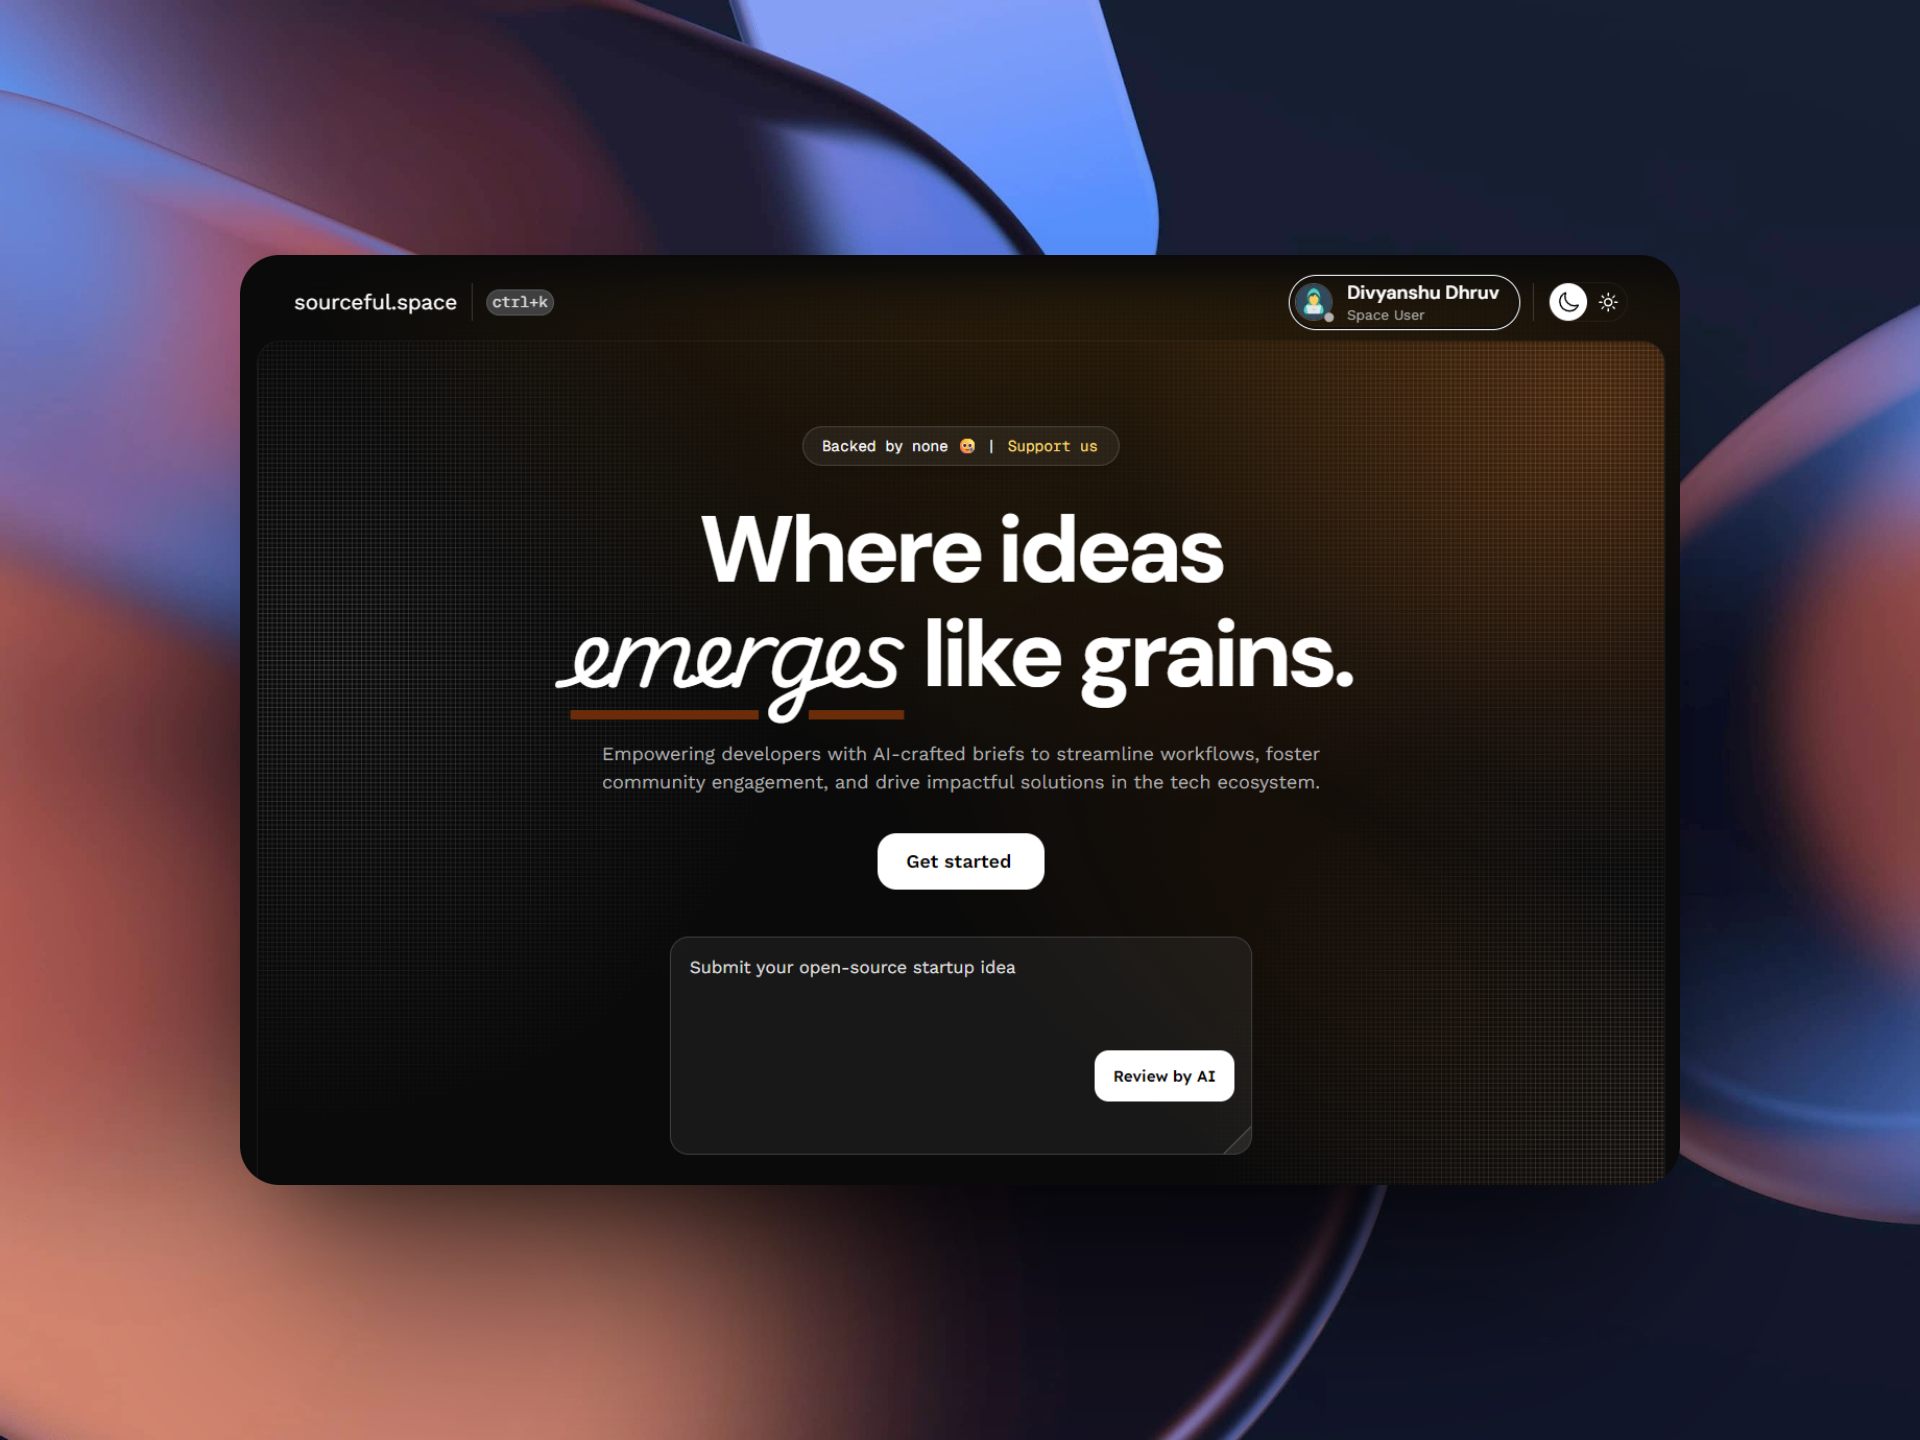
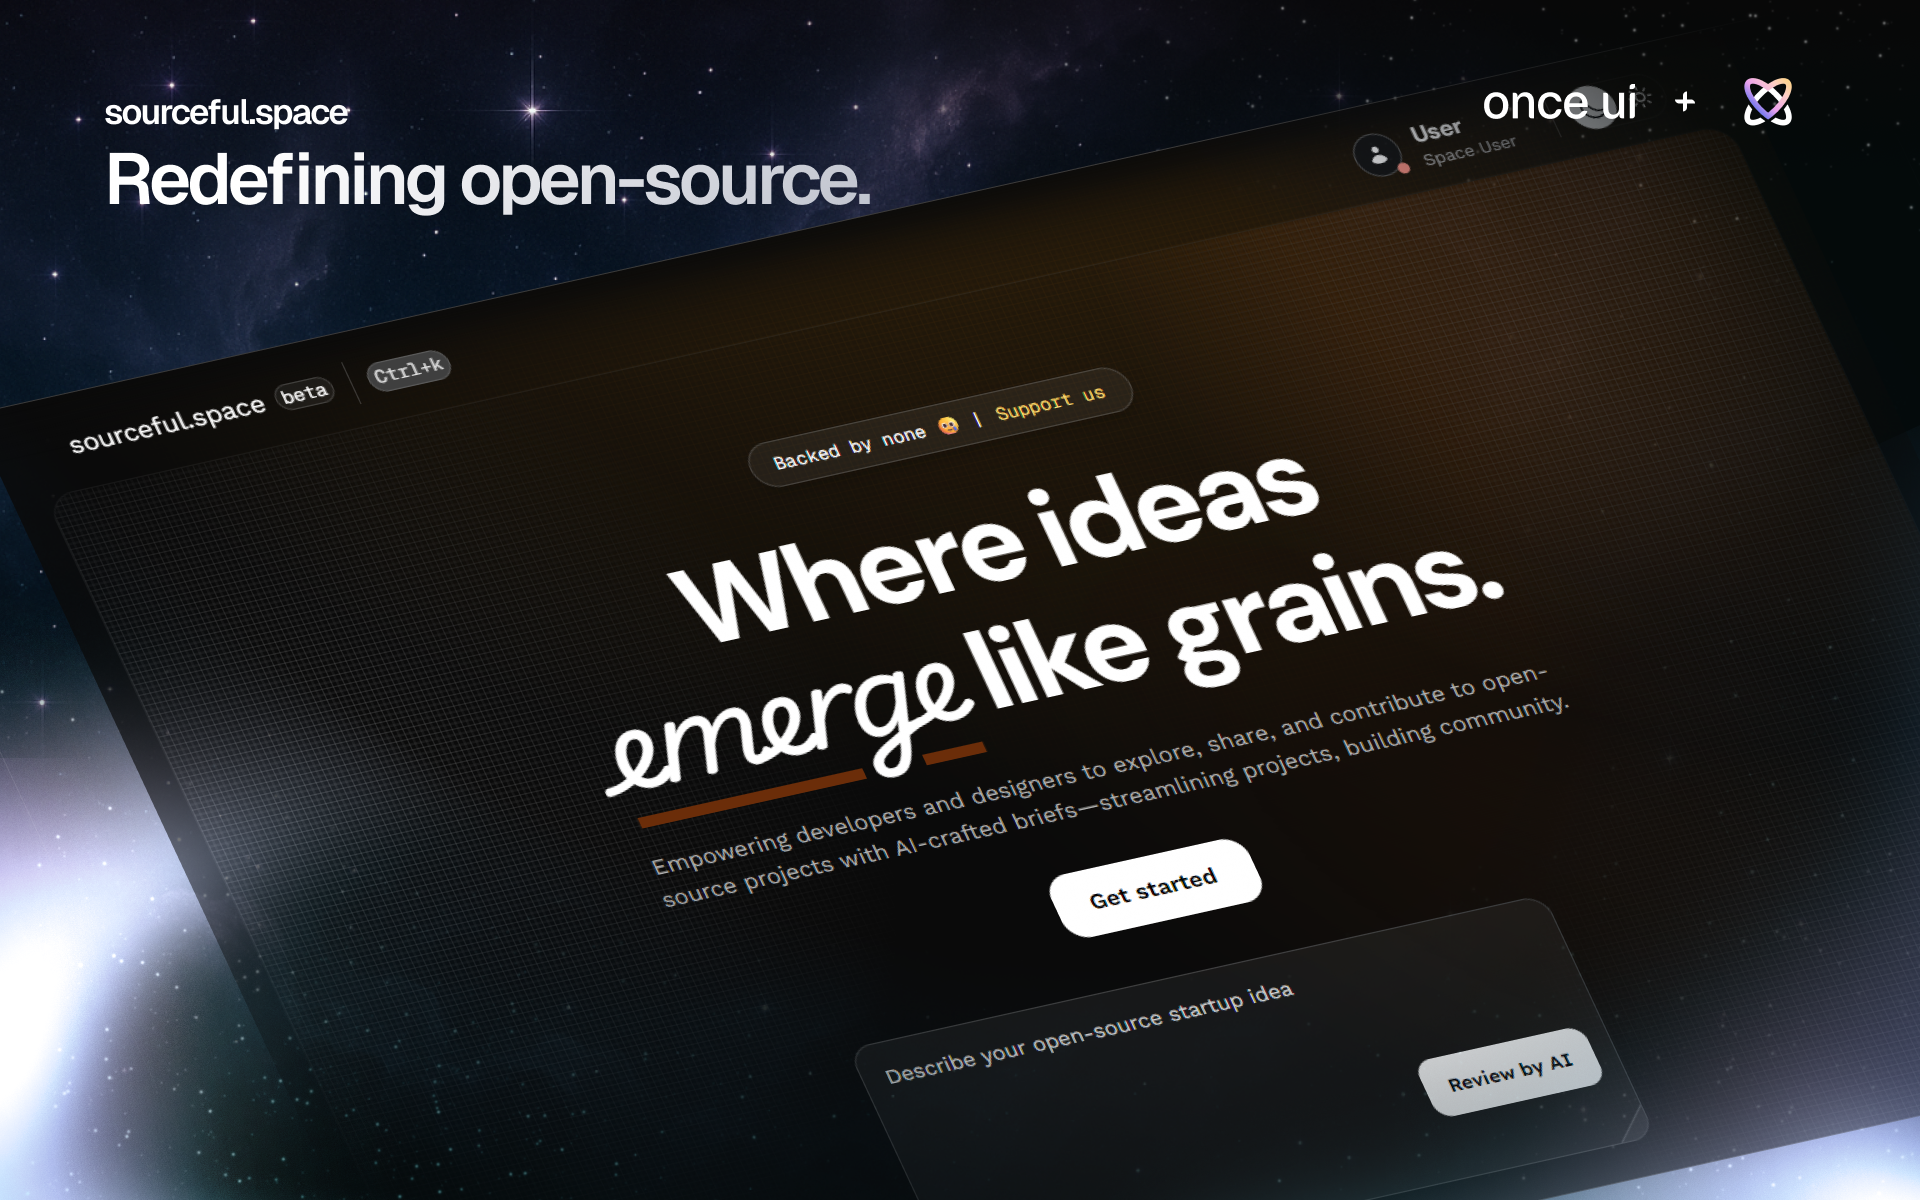
✨ feat(ui): enhance UserMenu and Home components with layout adjustments

diff --git a/src/app/page.tsx b/src/app/page.tsx
@@ -588,7 +588,12 @@ export default function Home() {
               loading={false}
               selected={false}
             />
-            <Line vert={true} height={2} background="neutral-alpha-medium" />
+            <Line
+              vert={true}
+              height={2}
+              background="neutral-alpha-medium"
+              hide="s"
+            />
             <ThemeSwitcher fillHeight />
           </Row>
         </Row>
@@ -718,7 +723,7 @@ export default function Home() {
                     textDecorationColor: "var(--accent-background-strong)",
                   }}
                 >
-                  emerges
+                  emerge
                 </u>
               </a>{" "}
               like grains.
@@ -1073,11 +1078,14 @@ export default function Home() {
                 <Text>
                   <u>supabase</u>
                 </Text>
-              </SmartLink> and   <SmartLink href="https://ai.google.dev" target="_blank">
+              </SmartLink>{" "}
+              and{" "}
+              <SmartLink href="https://ai.google.dev" target="_blank">
                 <Text>
-                  <u>gemini</u> 
+                  <u>gemini</u>
                 </Text>
-              </SmartLink> AI
+              </SmartLink>{" "}
+              AI
             </Text>
           </Column>
         </Column>

diff --git a/src/once-ui/components/UserMenu.tsx b/src/once-ui/components/UserMenu.tsx
@@ -35,6 +35,7 @@ const UserMenu: React.FC<UserMenuProps> = ({
       }}
       trigger={
         <Flex
+          hide="s" //user created
           tabIndex={0}
           direction="column"
           padding="4"
@@ -42,7 +43,11 @@ const UserMenu: React.FC<UserMenuProps> = ({
           cursor="interactive"
           border={selected ? "neutral-medium" : "transparent"}
           background={selected ? "neutral-strong" : "transparent"}
-          className={classNames(className || "", selected ? styles.selected : "", styles.wrapper)}
+          className={classNames(
+            className || "",
+            selected ? styles.selected : "",
+            styles.wrapper
+          )}
           style={style}
         >
           <User {...userProps} />
